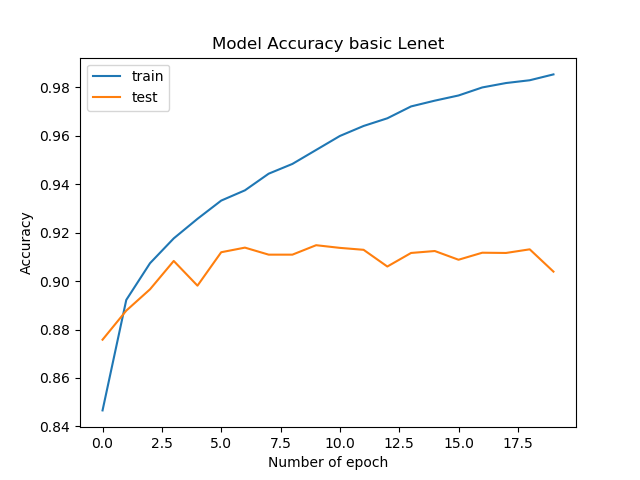
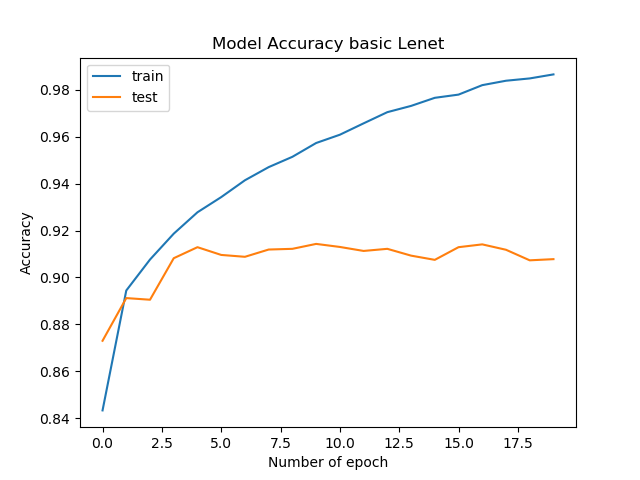
fixed bn bug and uploaded new results

diff --git a/main.py b/main.py
@@ -7,6 +7,7 @@ from keras.layers.core import Dropout
 from keras.layers.normalization import BatchNormalization
 from keras import regularizers
 from keras.layers.core import Flatten
+from keras.layers import InputLayer
 from keras.layers.core import Dense
 from keras.models import Sequential
 from keras.utils import np_utils
@@ -48,6 +49,8 @@ class LenetOverFashionMnist:
 
         self.model = Sequential()
 
+        self.model.add(InputLayer(input_shape=(28, 28, 1)))
+
         if self.bn_flag:
             self.model.add(BatchNormalization())
 
@@ -55,8 +58,7 @@ class LenetOverFashionMnist:
         self.model.add(Convolution2D(
             filters=32,
             kernel_size=(2, 2),
-            padding="same",
-            input_shape=(28, 28, 1)))
+            padding="same"))
 
         if self.dropout_flag:
             self.model.add(Dropout(rate=0.25))
@@ -76,9 +78,6 @@ class LenetOverFashionMnist:
             kernel_size=(2, 2),
             padding="same"))
 
-        if self.bn_flag:
-            self.model.add(BatchNormalization())
-
         # Add a ReLU activation function
         self.model.add(Activation(
             activation="relu"))
@@ -97,14 +96,8 @@ class LenetOverFashionMnist:
         else:
             self.model.add(Dense(128, activation='relu'))
 
-        if self.bn_flag:
-            self.model.add(BatchNormalization())
-
         # Add a fully-connected output layer
         self.model.add(Dense(10, activation='softmax'))
-
-        if self.bn_flag:
-            self.model.add(BatchNormalization())
 
         # Compile the network
         self.model.compile(
